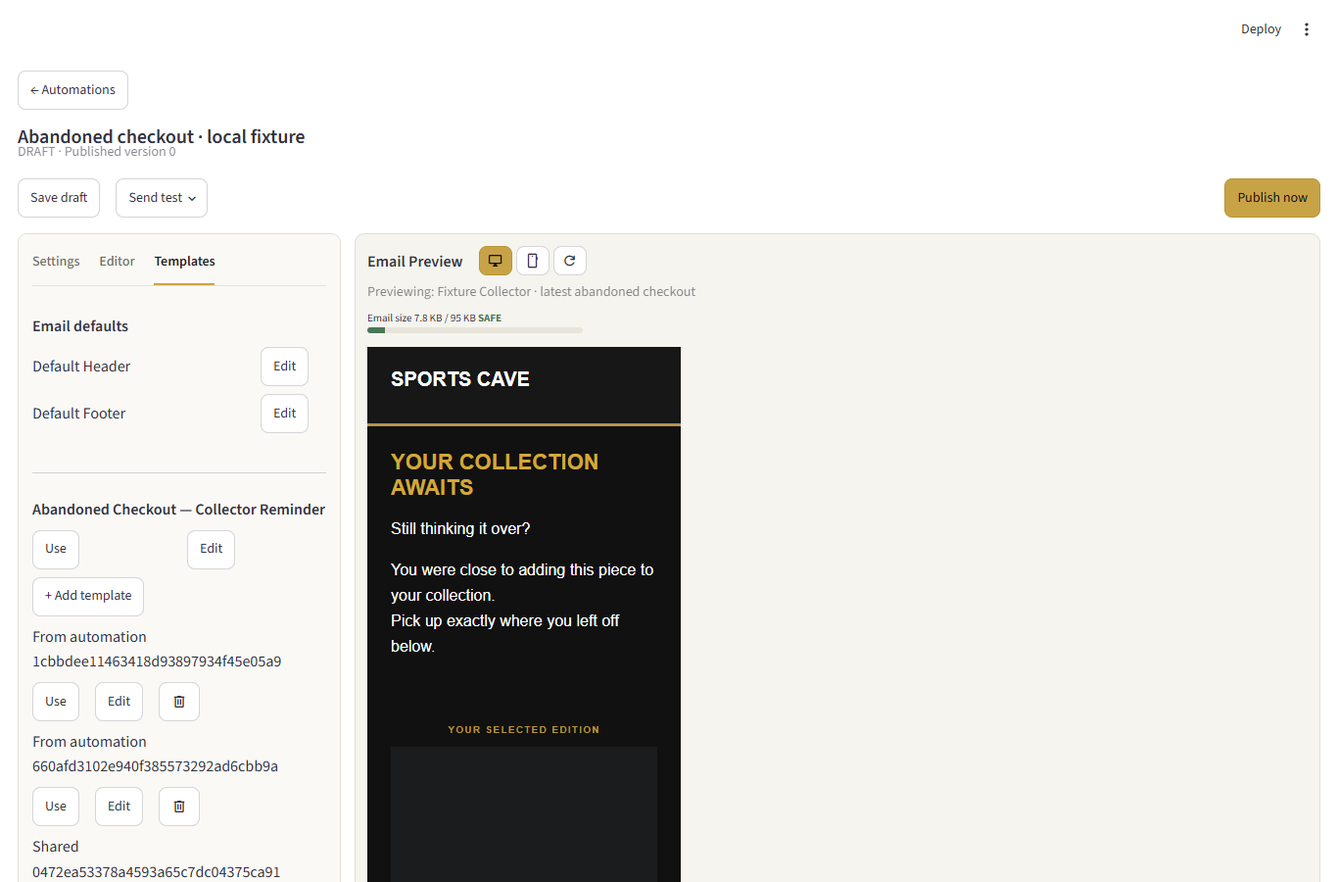
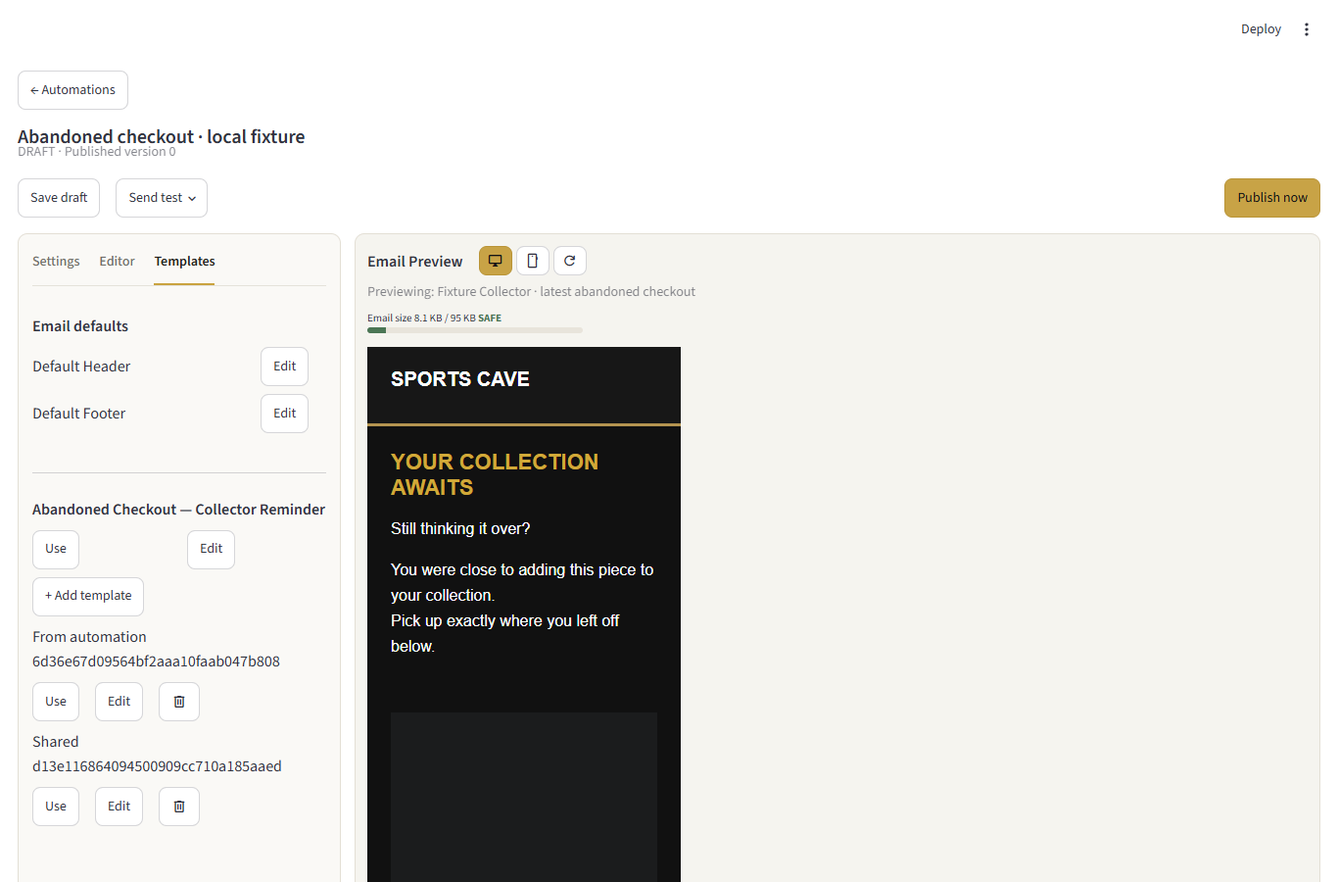
Polish abandoned checkout details and Edition Ops labels

diff --git a/templates/abandoned_checkout_collector_reminder.html b/templates/abandoned_checkout_collector_reminder.html
@@ -4,10 +4,14 @@
 .sc-cart-label { color:#b79335; font-size:10px; font-weight:700; letter-spacing:1.3px; margin:12px 0; }
 .sc-cart-image-wrap { padding:14px 24px; text-align:center; }
 .sc-cart-image { display:block; width:100%; max-width:480px; height:auto; margin:0 auto; border:0; }
-.sc-cart-title { color:#ffffff; font-size:17px; line-height:23px; font-weight:700; margin:14px 0 8px; }
-.sc-cart-variant { color:#ffffff; font-size:13px; line-height:19px; font-weight:500; margin:8px 0; }
+.sc-cart-title { color:#ffffff; font-size:17px; line-height:23px; font-weight:700; text-align:center; margin:14px 0 8px; }
+.sc-cart-variant { color:#b79335; font-size:14px; line-height:19px; font-weight:700; margin:6px 0 3px; }
+.sc-cart-dimensions { color:#bdbdbd; font-size:12px; line-height:18px; margin:3px 0 8px; }
 .sc-cart-meta { color:#bdbdbd; font-size:12px; line-height:18px; margin:8px 0; }
-.sc-cart-price { color:#ffffff; font-size:14px; line-height:19px; font-weight:700; margin:8px 0; }
+.sc-cart-qty { color:#bdbdbd; font-size:12px; line-height:18px; }
+.sc-cart-divider { color:#b79335; padding:0 10px; }
+.sc-cart-price { color:#ffffff; font-size:15px; line-height:19px; font-weight:700; }
+.sc-cart-rule { border:0; border-top:1px solid #76633c; width:80%; margin:12px auto 0; }
 .sc-cart-button-wrap { padding:14px 24px 24px; text-align:center; }
 .sc-cart-button { display:inline-block; background:#d1a938; color:#0b0b0b; font-family:Arial,Helvetica,sans-serif; font-size:15px; font-weight:700; padding:14px 24px; text-decoration:none; border-radius:0; }
 .sc-cart-extra-items { color:#a8a8a8; font-size:11px; }

diff --git a/crm_abandoned_checkout.py b/crm_abandoned_checkout.py
@@ -27,7 +27,7 @@ def money(value):
     return amount,currency
 
 
-def context(checkout):
+def context(checkout,*,edition_reader=None):
     if not isinstance(checkout,dict) or checkout.get('completedAt'):raise ValueError('Checkout is unavailable or already recovered.')
     identity=checkout.get('id','');url=checkout.get('abandonedCheckoutUrl','')
     if not re.fullmatch(r'gid://shopify/AbandonedCheckout/\d+',identity) or not public_https(url):raise ValueError('Checkout recovery data unavailable.')
@@ -47,7 +47,33 @@ def context(checkout):
             from crm_campaign_html import email_image_url
             image=email_image_url(image)
             if not image:raise ValueError('Checkout image needs a public HTTPS destination.')
-        items.append({'title':title,'variant':variant,'quantity':quantity,'image':image,'amount':str(amount),'currency':currency})
+        product=(item.get('variant') or {}).get('product') or item.get('product') or {}
+        items.append({'title':title,'variant':variant,'quantity':quantity,'image':image,'amount':str(amount),'currency':currency,
+                      'product_id':product.get('id'),'edition':None})
+    # Read existing ledger facts once per context, never during HTML rendering.
+    # This projection has next/limit facts, but no checkout reservation authority.
+    from crm_catalogue import product_id,edition_for
+    ids=list(dict.fromkeys(product_id(item['product_id']) for item in items if product_id(item['product_id'])))
+    if ids:
+        try:
+            if edition_reader is None:
+                from supabase_backend import list_edition_products_read_only
+                edition_reader=list_edition_products_read_only
+            rows=[]
+            for start in range(0,len(ids),50):
+                rows.extend(edition_reader(product_ids=ids[start:start+50],handles=[],limit=100))
+            for item in items:
+                pid=product_id(item['product_id'])
+                if not pid:continue
+                item['edition']=edition_for({'id':pid,'handle':''},rows)
+                exact=[row for row in rows if product_id(row.get('shopify_product_gid') or row.get('shopify_product_id'))==pid]
+                if item['edition'] is None and len(exact)==1:
+                    row=exact[0];limit=row.get('edition_total')
+                    if not row.get('allocation_blocked') and row.get('active') is not False and type(limit) is int and limit>0:
+                        item['edition']={'limit':limit}
+        except Exception as exc:
+            import logging
+            logging.getLogger(__name__).warning('checkout_editions_unavailable type=%s',type(exc).__name__)
     customer=checkout.get('customer') or {}
     return {'checkout_id':identity,'customer_id':customer.get('id'),'created_at':checkout.get('createdAt'),
       'label':' '.join(str(customer.get(k) or '').strip() for k in ('firstName','lastName')).strip() or customer.get('email') or 'latest abandoned checkout',
@@ -119,13 +145,44 @@ def preview_context(state,shop,*,refresh=False,auto_refresh=True,slot='abandoned
     return last_good,'No recent abandoned checkout available for preview.'
 
 
+def variant_details(value):
+    """Separate only recognisable dimensions; preserve unknown product options."""
+    value=str(value or '').strip()
+    match=re.search(r'\s+[-–—]\s+(\d+(?:\.\d+)?\s*[×x]\s*\d+(?:\.\d+)?\s*cm(?:\s*\([^\n<>]+\))?)$',value,re.I)
+    dimensions=match[1] if match else ''
+    variant=value[:match.start()].strip() if match else value
+    parts=[part.strip() for part in variant.split('/')]
+    if parts and parts[0] in {'Black','Oak','White','Unframed','Black Frame','Oak Frame','White Frame'}:
+        parts[0]={'Black':'Black Frame','Oak':'Oak Frame','White':'White Frame'}.get(parts[0],parts[0])
+        variant=' · '.join(parts)
+    return variant,dimensions
+
+
+def edition_label(edition):
+    if not isinstance(edition,dict):return ''
+    limit=edition.get('limit');number=edition.get('next')
+    if type(limit) is not int or limit<1:return ''
+    if type(number) is int and 1<=number<=limit and edition.get('remaining',0)>0:
+        return 'YOUR EDITION NUMBER WILL BE #'+str(number).zfill(3 if limit==100 else len(str(limit)))+'/'+str(limit)
+    return 'LIMITED TO '+str(limit)+' WORLDWIDE'
+
+
 def block_html(data,*,test=False):
     """Dynamic facts and semantic markup only. Theme belongs to authored HTML."""
     rows=[]
     for index,item in enumerate(data['items']):
         image='' if not item['image'] else '<img class="sc-cart-image" src="'+escape(item['image'],quote=True)+'" alt="'+escape(item['title'],quote=True)+'" style="display:block;width:100%;height:auto">'
-        label=item['currency']+' '+format(Decimal(item['amount']),',.2f') if item['amount'] is not None else 'Price unavailable in sample preview'
-        rows.append('<tr'+(' class="sc-cart-extra-items"' if index else '')+'><td class="sc-cart-image-wrap"><p class="sc-cart-label">YOUR SELECTED EDITION</p>'+image+'<p class="sc-cart-title">'+escape(item['title'])+'</p>'+('<p class="sc-cart-variant">'+escape(item['variant'])+'</p>' if item['variant'] else '')+'<p class="sc-cart-meta">Quantity: '+str(item['quantity'])+'</p><p class="sc-cart-price">Line total: '+escape(label)+'</p></td></tr>')
+        from crm_catalogue import price_label
+        price=price_label({'currency':item['currency'],'price':item['amount']}) if item['amount'] is not None else 'Price unavailable in sample preview'
+        variant,dimensions=variant_details(item['variant']);label=edition_label(item.get('edition'))
+        rows.append('<tr'+(' class="sc-cart-extra-items"' if index else '')+'><td class="sc-cart-image-wrap">'+
+          ('<p class="sc-cart-label">'+escape(label)+'</p>' if label else '')+image+
+          '<p class="sc-cart-title">'+escape(item['title'])+'</p>'+
+          ('<p class="sc-cart-variant">'+escape(variant)+'</p>' if variant else '')+
+          ('<p class="sc-cart-dimensions">'+escape(dimensions)+'</p>' if dimensions else '')+
+          '<p class="sc-cart-meta"><span class="sc-cart-qty">Qty '+str(item['quantity'])+'</span>'+
+          '<span class="sc-cart-divider"> | </span><span class="sc-cart-price">'+escape(price)+'</span></p>'+
+          '<hr class="sc-cart-rule"></td></tr>')
     disabled=test or data.get('preview_only')
     cta='<span class="sc-cart-button">'+('Recovery action disabled in test email' if test else 'Complete Your Order →')+'</span>' if disabled else '<a class="sc-cart-button" href="'+escape(data['recovery_url'],quote=True)+'">Complete Your Order →</a>'
     return '<table class="sc-cart-block" role="presentation" width="100%" cellspacing="0" cellpadding="0" style="width:100%;max-width:600px;table-layout:fixed">'+''.join(rows)+'<tr><td class="sc-cart-button-wrap" align="center">'+cta+'</td></tr></table>'

diff --git a/tests/test_crm_checkout_details.py b/tests/test_crm_checkout_details.py
@@ -1,0 +1,90 @@
+from copy import deepcopy
+from unittest import TestCase
+from unittest.mock import Mock,patch
+
+from crm_abandoned_checkout import context,block_html,variant_details,edition_label,hydrate
+from crm_checkout_styles import default_html,upgrade_html,rules
+from crm_checkout_template import load
+from crm_campaign_content import render_campaign
+from tests.test_crm_abandoned_checkout import checkout,native_document
+from tests.test_crm_send_flow import CFG
+from tests.test_crm_checkout_template_styles import attrs
+
+
+class CheckoutDetailsTests(TestCase):
+    def test_known_frame_and_dimensions(self):
+        for frame in ('Black','Oak','White','Unframed'):
+            expected=frame if frame=='Unframed' else frame+' Frame'
+            self.assertEqual(variant_details(frame+' / XL - 62 × 87 cm (24.4 × 34.3 in)'),
+                             (expected+' · XL','62 × 87 cm (24.4 × 34.3 in)'))
+        self.assertEqual(variant_details('Custom finish / Signed'),('Custom finish / Signed',''))
+        self.assertEqual(variant_details('Black / Limited - special'),('Black Frame · Limited - special',''))
+
+    def test_compact_row_and_shared_market_formatter(self):
+        for currency,expected in [('AUD','A$423.30'),('USD','US$423.30'),('GBP','£423.30'),('NZD','NZD 423.30')]:
+            source=checkout(currency=currency);line=source['lineItems']['nodes'][0]
+            line['variantTitle']='Black / XL - 62 × 87 cm (24.4 × 34.3 in)'
+            line['discountedTotalPriceWithCodeDiscount']['presentmentMoney']['amount']='423.30'
+            original=deepcopy(source);data=context(source)
+            html=render_campaign(hydrate(native_document(),data),CFG)['html']
+            self.assertIn(expected,html);self.assertIn('Qty 2',html)
+            for old in ('Line total:','Quantity:','YOUR SELECTED EDITION'):self.assertNotIn(old,html)
+            for cls in ('sc-cart-dimensions','sc-cart-qty','sc-cart-divider','sc-cart-rule'):
+                self.assertTrue(attrs(html,cls));self.assertIn('style',attrs(html,cls)[0])
+            self.assertEqual(source,original)
+
+    def test_exact_ledger_link_batch_and_no_render_reads(self):
+        source=checkout(items=2)
+        for line in source['lineItems']['nodes']:line['variant']={'product':{'id':'gid://shopify/Product/123'}}
+        reader=Mock(return_value=[{'shopify_product_id':'123','edition_total':100,'run_next_edition_number':52,
+                                  'sold_count':49,'remaining_count':51,'active':True}])
+        data=context(source,edition_reader=reader)
+        reader.assert_called_once_with(product_ids=['gid://shopify/Product/123'],handles=[],limit=100)
+        for _ in range(3):
+            html=block_html(data)
+            self.assertIn('YOUR EDITION NUMBER WILL BE #052/100',html)
+            self.assertNotIn('RESERVED',html)
+        self.assertEqual(reader.call_count,1)
+
+    def test_padding_and_limit_fallback_never_fabricates_reservation(self):
+        for number in (8,52,99,100):
+            label=edition_label({'limit':100,'next':number,'remaining':1,'reserved':True})
+            self.assertIn('#'+str(number).zfill(3)+'/100',label);self.assertNotIn('RESERVED',label)
+        for number in (None,0,101):
+            self.assertEqual(edition_label({'limit':100,'next':number}), 'LIMITED TO 100 WORLDWIDE')
+        self.assertEqual(edition_label(None),'')
+        self.assertEqual(edition_label({'limit':True}),'')
+
+    def test_unavailable_or_ambiguous_ledger_does_not_invent_number(self):
+        source=checkout();source['lineItems']['nodes'][0]['variant']={'product':{'id':'gid://shopify/Product/123'}}
+        row={'shopify_product_id':'123','edition_total':100}
+        data=context(source,edition_reader=Mock(return_value=[row]))
+        self.assertIn('LIMITED TO 100 WORLDWIDE',block_html(data))
+        for reader in (Mock(return_value=[row,row]),Mock(side_effect=RuntimeError('Unavailable'))):
+            self.assertNotIn('WORLDWIDE',block_html(context(source,edition_reader=reader)))
+
+    def test_ledger_reads_are_bounded_and_unknown_product_never_matches(self):
+        source=checkout(items=52)
+        for index,line in enumerate(source['lineItems']['nodes']):
+            if index<51:line['variant']={'product':{'id':'gid://shopify/Product/'+str(index+1)}}
+        reader=Mock(return_value=[{'shopify_product_id':'1','edition_total':100}])
+        data=context(source,edition_reader=reader)
+        self.assertEqual([len(call.kwargs['product_ids']) for call in reader.call_args_list],[50,1])
+        self.assertIsNone(data['items'][-1]['edition'])
+
+    def test_legacy_master_read_upgrade_is_non_persistent_and_custom_rules_survive(self):
+        import re
+        legacy=re.sub(r'\.sc-cart-(?:dimensions|qty|divider|rule)\s*\{[^{}]*\}\n','',default_html())
+        legacy=legacy.replace('.sc-cart-variant { color:#b79335;', '.sc-cart-variant { color:#aabbcc;')
+        store=Mock();store.state.return_value={'revision':5,'html':legacy}
+        result=load(store)
+        self.assertIn('color:#aabbcc',result['html']);self.assertIn('.sc-cart-dimensions',result['html'])
+        self.assertEqual(store.state.return_value['html'],legacy)
+        self.assertEqual(upgrade_html(result['html']),result['html'])
+        self.assertTrue(rules(result['html']))
+
+    def test_new_classes_are_restricted_to_semantic_tags(self):
+        from crm_campaign_html import import_html
+        html,_,_=import_html('<img class="sc-cart-rule" src="https://cdn.shopify.com/fixture.png"><p class="sc-cart-unknown">Text</p><hr class="sc-cart-rule">')
+        self.assertEqual(html.count('class="sc-cart-rule"'),1)
+        self.assertNotIn('sc-cart-unknown',html)

diff --git a/tests/test_crm_checkout_template_styles.py b/tests/test_crm_checkout_template_styles.py
@@ -28,12 +28,12 @@ def attrs(source,name):
 class TemplateStyleTests(unittest.TestCase):
     def test_data_markup_has_contract_but_no_visual_theme(self):
         html=block_html(context(checkout(items=2)))
-        for name in CLASSES:self.assertTrue(attrs(html,name),name)
+        for name in CLASSES-{'sc-cart-label','sc-cart-dimensions'}:self.assertTrue(attrs(html,name),name)
         for forbidden in ('color:','background:','font-size:','font-weight:','opacity:','padding:'):
             self.assertNotIn(forbidden,html)
 
     def test_variant_title_button_and_image_width_follow_authored_css(self):
-        html=default_html().replace('.sc-cart-variant { color:#ffffff;', '.sc-cart-variant { color:#d1a938 !important;').replace('.sc-cart-title { color:#ffffff;', '.sc-cart-title { color:#ff0000 !important;').replace('background:#d1a938;', 'background:#c59b2d !important;').replace('max-width:480px;', 'max-width:320px;')
+        html=default_html().replace('.sc-cart-variant { color:#b79335;', '.sc-cart-variant { color:#d1a938 !important;').replace('.sc-cart-title { color:#ffffff;', '.sc-cart-title { color:#ff0000 !important;').replace('background:#d1a938;', 'background:#c59b2d !important;').replace('max-width:480px;', 'max-width:320px;')
         doc=styled(html);original=deepcopy(doc)
         message=render_campaign(hydrate(doc,context(checkout())),CFG)
         self.assertIn('color:#d1a938',attrs(message['html'],'sc-cart-variant')[0]['style'])
@@ -44,7 +44,7 @@ class TemplateStyleTests(unittest.TestCase):
         self.assertEqual(doc,original)
 
     def test_preview_test_and_live_compilation_match_theme(self):
-        doc=styled(default_html().replace('.sc-cart-variant { color:#ffffff;', '.sc-cart-variant { color:#d1a938;'))
+        doc=styled(default_html().replace('.sc-cart-variant { color:#b79335;', '.sc-cart-variant { color:#d1a938;'))
         data=context(checkout())
         preview=preview_document(doc,data)[0];test=preview_document(doc,data,test=True)[0];live=hydrate(doc,data)
         for rendered in (preview,test,live):
@@ -75,7 +75,7 @@ class TemplateStyleTests(unittest.TestCase):
     def test_legacy_typed_block_without_css_gets_template_file_fallback(self):
         doc=styled();doc['middle_sections'][0]['html']='<p>Existing authored copy</p>';doc['custom_html']=doc['middle_sections'][0]['html']
         rendered=render_campaign(hydrate(doc,context(checkout())),CFG)
-        self.assertIn('color:#ffffff',attrs(rendered['html'],'sc-cart-variant')[0]['style'])
+        self.assertIn('color:#b79335',attrs(rendered['html'],'sc-cart-variant')[0]['style'])
         self.assertIn('Existing authored copy',rendered['html'])
 
     def test_general_html_css_boundary_remains_closed(self):
@@ -93,7 +93,7 @@ class MasterPersistenceTests(unittest.TestCase):
         store=AutomationStore(connect);previous=store.state(KEY)
         try:
             old=load(store);draft=styled();before=deepcopy(draft)
-            changed=old['html'].replace('.sc-cart-variant { color:#ffffff;', '.sc-cart-variant { color:#d1a938;')
+            changed=old['html'].replace('.sc-cart-variant { color:#b79335;', '.sc-cart-variant { color:#d1a938;')
             row=save(store,ADMIN,changed,old['revision'])
             self.assertEqual(load(store)['html'],changed);self.assertEqual(draft,before)
             use(store,draft);self.assertIn('color:#d1a938',draft['middle_sections'][0]['html'])

diff --git a/crm_checkout_styles.py b/crm_checkout_styles.py
@@ -5,12 +5,31 @@ from pathlib import Path
 import re
 from crm_campaign_html import CSS
 
-CLASSES=frozenset('sc-cart-block sc-cart-label sc-cart-image-wrap sc-cart-image sc-cart-title sc-cart-variant sc-cart-meta sc-cart-price sc-cart-button-wrap sc-cart-button sc-cart-extra-items'.split())
+CLASSES=frozenset('sc-cart-block sc-cart-label sc-cart-image-wrap sc-cart-image sc-cart-title sc-cart-variant sc-cart-dimensions sc-cart-meta sc-cart-qty sc-cart-divider sc-cart-rule sc-cart-price sc-cart-button-wrap sc-cart-button sc-cart-extra-items'.split())
 MARKER='<!--SC_ABANDONED_CHECKOUT-->'
 STYLE=re.compile(r'<style\b[^>]*>(.*?)</style\s*>',re.I|re.S)
 
 
 def default_html():return (Path(__file__).parent/'templates'/'abandoned_checkout_collector_reminder.html').read_text(encoding='utf-8')
+
+
+def upgrade_html(source):
+    """Add missing detail rules to legacy masters/drafts without changing authored rules."""
+    # Only the exact previous built-in defaults are upgraded; custom values survive.
+    replacements={
+      '.sc-cart-variant { color:#ffffff; font-size:13px; line-height:19px; font-weight:500; margin:8px 0; }':'sc-cart-variant',
+      '.sc-cart-price { color:#ffffff; font-size:14px; line-height:19px; font-weight:700; margin:8px 0; }':'sc-cart-price',
+    }
+    defaults=default_html()
+    for previous,name in replacements.items():
+        current=re.search(r'\.'+name+r'\s*\{[^{}]*\}',defaults)[0]
+        source=source.replace(previous,current)
+    present=rules(source,strict=False)
+    additions=[]
+    for selector,body in re.findall(r'(\.sc-cart-[\w-]+)\s*\{([^{}]*)\}',defaults):
+        if selector[1:] in {'sc-cart-dimensions','sc-cart-qty','sc-cart-divider','sc-cart-rule'} and selector[1:] not in present:
+            additions.append(selector+' {'+body+'}')
+    return ('<style>\n'+'\n'.join(additions)+'\n</style>\n'+source) if additions else source
 
 
 def declarations(source):
@@ -86,7 +105,10 @@ def count(doc):
 
 def compile_document(doc,*,strict=True):
     from copy import deepcopy
-    result=deepcopy(doc);source='\n'.join(sources(doc));theme=rules(source,strict=strict) or rules(default_html())
+    result=deepcopy(doc);source='\n'.join(sources(doc))
+    theme=rules(upgrade_html(source),strict=strict) if rules(source,strict=strict) else rules(default_html())
+    for name,values in rules(default_html()).items():
+        if name in {'sc-cart-dimensions','sc-cart-qty','sc-cart-divider','sc-cart-rule'}:theme.setdefault(name,values)
     if 'middle_sections' in result:
         for s in result['middle_sections']:
             if s.get('type') in ('html','image'):s['html']=compile_html(s['html'],theme)

diff --git a/tests/test_crm_abandoned_checkout.py b/tests/test_crm_abandoned_checkout.py
@@ -41,7 +41,7 @@ class CheckoutTests(unittest.TestCase):
             with self.subTest(currency=currency):
                 original=native_document();before=deepcopy(original);data=context(checkout(currency=currency,items=2))
                 rendered=render_campaign(hydrate(original,data),CFG)
-                self.assertIn(currency+' 199.50',rendered['html']);self.assertIn('Quantity: 2',rendered['text'])
+                self.assertIn({'AUD':'A$','USD':'US$','GBP':'£'}.get(currency,currency+' ')+'199.50',rendered['html']);self.assertIn('Qty 2',rendered['text'])
                 self.assertIn('&lt;safe&gt;',rendered['html']);self.assertNotIn('NZD 312',rendered['html'])
                 self.assertIn('Complete Your Order',rendered['html']);self.assertEqual(original,before)
                 self.assertNotIn('{{',rendered['html']);self.assertNotIn(BLOCK,rendered['html'])
@@ -50,7 +50,7 @@ class CheckoutTests(unittest.TestCase):
         raw=checkout();line=raw['lineItems']['nodes'][0];line['image']=None;line['variantTitle']=None
         line['title']='Real product identity — '+('Collector '+ 'edition ')*40
         data=context(raw);output=render_campaign(hydrate(native_document(),data),CFG,images_off=True)
-        self.assertIn(line['title'],output['text']);self.assertIn('AUD 199.50',output['text'])
+        self.assertIn(line['title'],output['text']);self.assertIn('A$199.50',output['text'])
         self.assertNotIn('<img',block_html(data));self.assertNotIn('None',output['html'])
 
     def test_test_message_disables_only_recovery_and_keeps_real_products(self):

diff --git a/tests/test_crm_checkout_preview_fallback.py b/tests/test_crm_checkout_preview_fallback.py
@@ -34,7 +34,7 @@ class PreviewFallbackTests(unittest.TestCase):
         message=render_campaign(result,CFG)
         self.assertTrue(warning);self.assertEqual(doc,original)
         self.assertEqual([s['id'] for s in result['middle_sections']],[s['id'] for s in doc['middle_sections']])
-        for text in ('MY CUSTOM HEADLINE','MY CUSTOM OUTRO','Questions about sizing','AUD 199.50'):self.assertIn(text,message['html'])
+        for text in ('MY CUSTOM HEADLINE','MY CUSTOM OUTRO','Questions about sizing','A$199.50'):self.assertIn(text,message['html'])
         for token in ('{{','{%','OLD EMPTY CART MESSAGE'):self.assertNotIn(token,message['html'])
         self.assertEqual(message['html'].count('Complete Your Order'),1)
         self.assertIn('/checkouts/1/',message['html'])
@@ -104,7 +104,7 @@ class PreviewFallbackTests(unittest.TestCase):
         store.preview_shop.abandoned_preview.return_value={'nodes':[checkout()], 'pageInfo':{'hasNextPage':False}}
         doc=self.legacy_document();before=deepcopy(doc);result=store.test_document(doc,'op')
         message=render_production(result,CFG)
-        self.assertIn('AUD 199.50',message['html']);self.assertIn('Recovery action disabled',message['html'])
+        self.assertIn('A$199.50',message['html']);self.assertIn('Recovery action disabled',message['html'])
         self.assertNotIn('/checkouts/1/',message['html']);self.assertEqual(doc,before)
 
     def test_preview_fallback_cannot_relax_publication_or_live_binding(self):

diff --git a/crm_campaign_html.py b/crm_campaign_html.py
@@ -71,6 +71,8 @@ class EmailHTML(HTMLParser):
             elif name in {'align','valign','alt','title','role'}: safe.append((name,value))
             elif name=='class' and self.trusted_catalogue and tag=='table' and value in {'sc-cat-item sc-cat-2','sc-cat-item sc-cat-3','sc-cat-item sc-cat-4'}:safe.append((name,value))
             elif name=='class' and value=='sc-stack' and tag=='td': safe.append((name,value))
+            elif name=='class' and value in {'sc-cart-dimensions','sc-cart-qty','sc-cart-divider'} and tag in {'p','span'}:safe.append((name,value))
+            elif name=='class' and value=='sc-cart-rule' and tag=='hr':safe.append((name,value))
             elif name=='class' and value in {'sc-cart-block','sc-cart-label','sc-cart-image-wrap','sc-cart-image','sc-cart-title','sc-cart-variant','sc-cart-meta','sc-cart-price','sc-cart-button-wrap','sc-cart-button','sc-cart-extra-items'} and tag in {'table','tr','td','p','span','a','img'}:safe.append((name,value))
             elif name in {'bgcolor','color'} and (name=='bgcolor' or tag=='font') and re.fullmatch(r'#[a-fA-F0-9]{3}(?:[a-fA-F0-9]{3})?|[a-zA-Z]{1,25}',value):safe.append((name,value))
             elif tag=='font' and name=='face' and re.fullmatch(r'[a-zA-Z0-9 ,\'"-]{1,200}',value):safe.append((name,value))

diff --git a/tests/test_crm_native_automations.py b/tests/test_crm_native_automations.py
@@ -96,7 +96,7 @@ class NativeAutomationTests(unittest.TestCase):
             send_test(self.store,ADMIN,editor,'internal@example.test',operation,env=LIVE,session=wire)
         wire.post.assert_called_once();self.store.preview_shop.abandoned_preview.assert_called_once_with(after=None,fresh=True)
         payload=wire.post.call_args.kwargs['json'];self.assertIn('Recovery action disabled',payload['html'])
-        self.assertNotIn('/checkouts/83/',str(payload));self.assertIn('AUD 199.50',payload['html'])
+        self.assertNotIn('/checkouts/83/',str(payload));self.assertIn('A$199.50',payload['html'])
         saved=self.store.flow(a['id'])['config']['draft']['emails'][0]['document']
         self.assertNotIn('/checkouts/83/',str(saved));self.assertTrue(any(s['type']=='abandoned_checkout_products' for s in saved['middle_sections']))
 

diff --git a/crm_checkout_template.py b/crm_checkout_template.py
@@ -1,14 +1,14 @@
 """Editable master HTML in existing runtime-state storage; drafts own copied HTML."""
 from copy import deepcopy
 import json
-from crm_checkout_styles import MARKER,CLASSES,default_html,rules
+from crm_checkout_styles import MARKER,CLASSES,default_html,rules,upgrade_html
 
 KEY='abandoned_checkout_master_v1'
 
 
 def load(store):
     row=store.state(KEY)
-    return row if row else {'revision':0,'html':default_html()}
+    return {**row,'html':upgrade_html(row['html'])} if row else {'revision':0,'html':default_html()}
 
 
 def validate(html):
